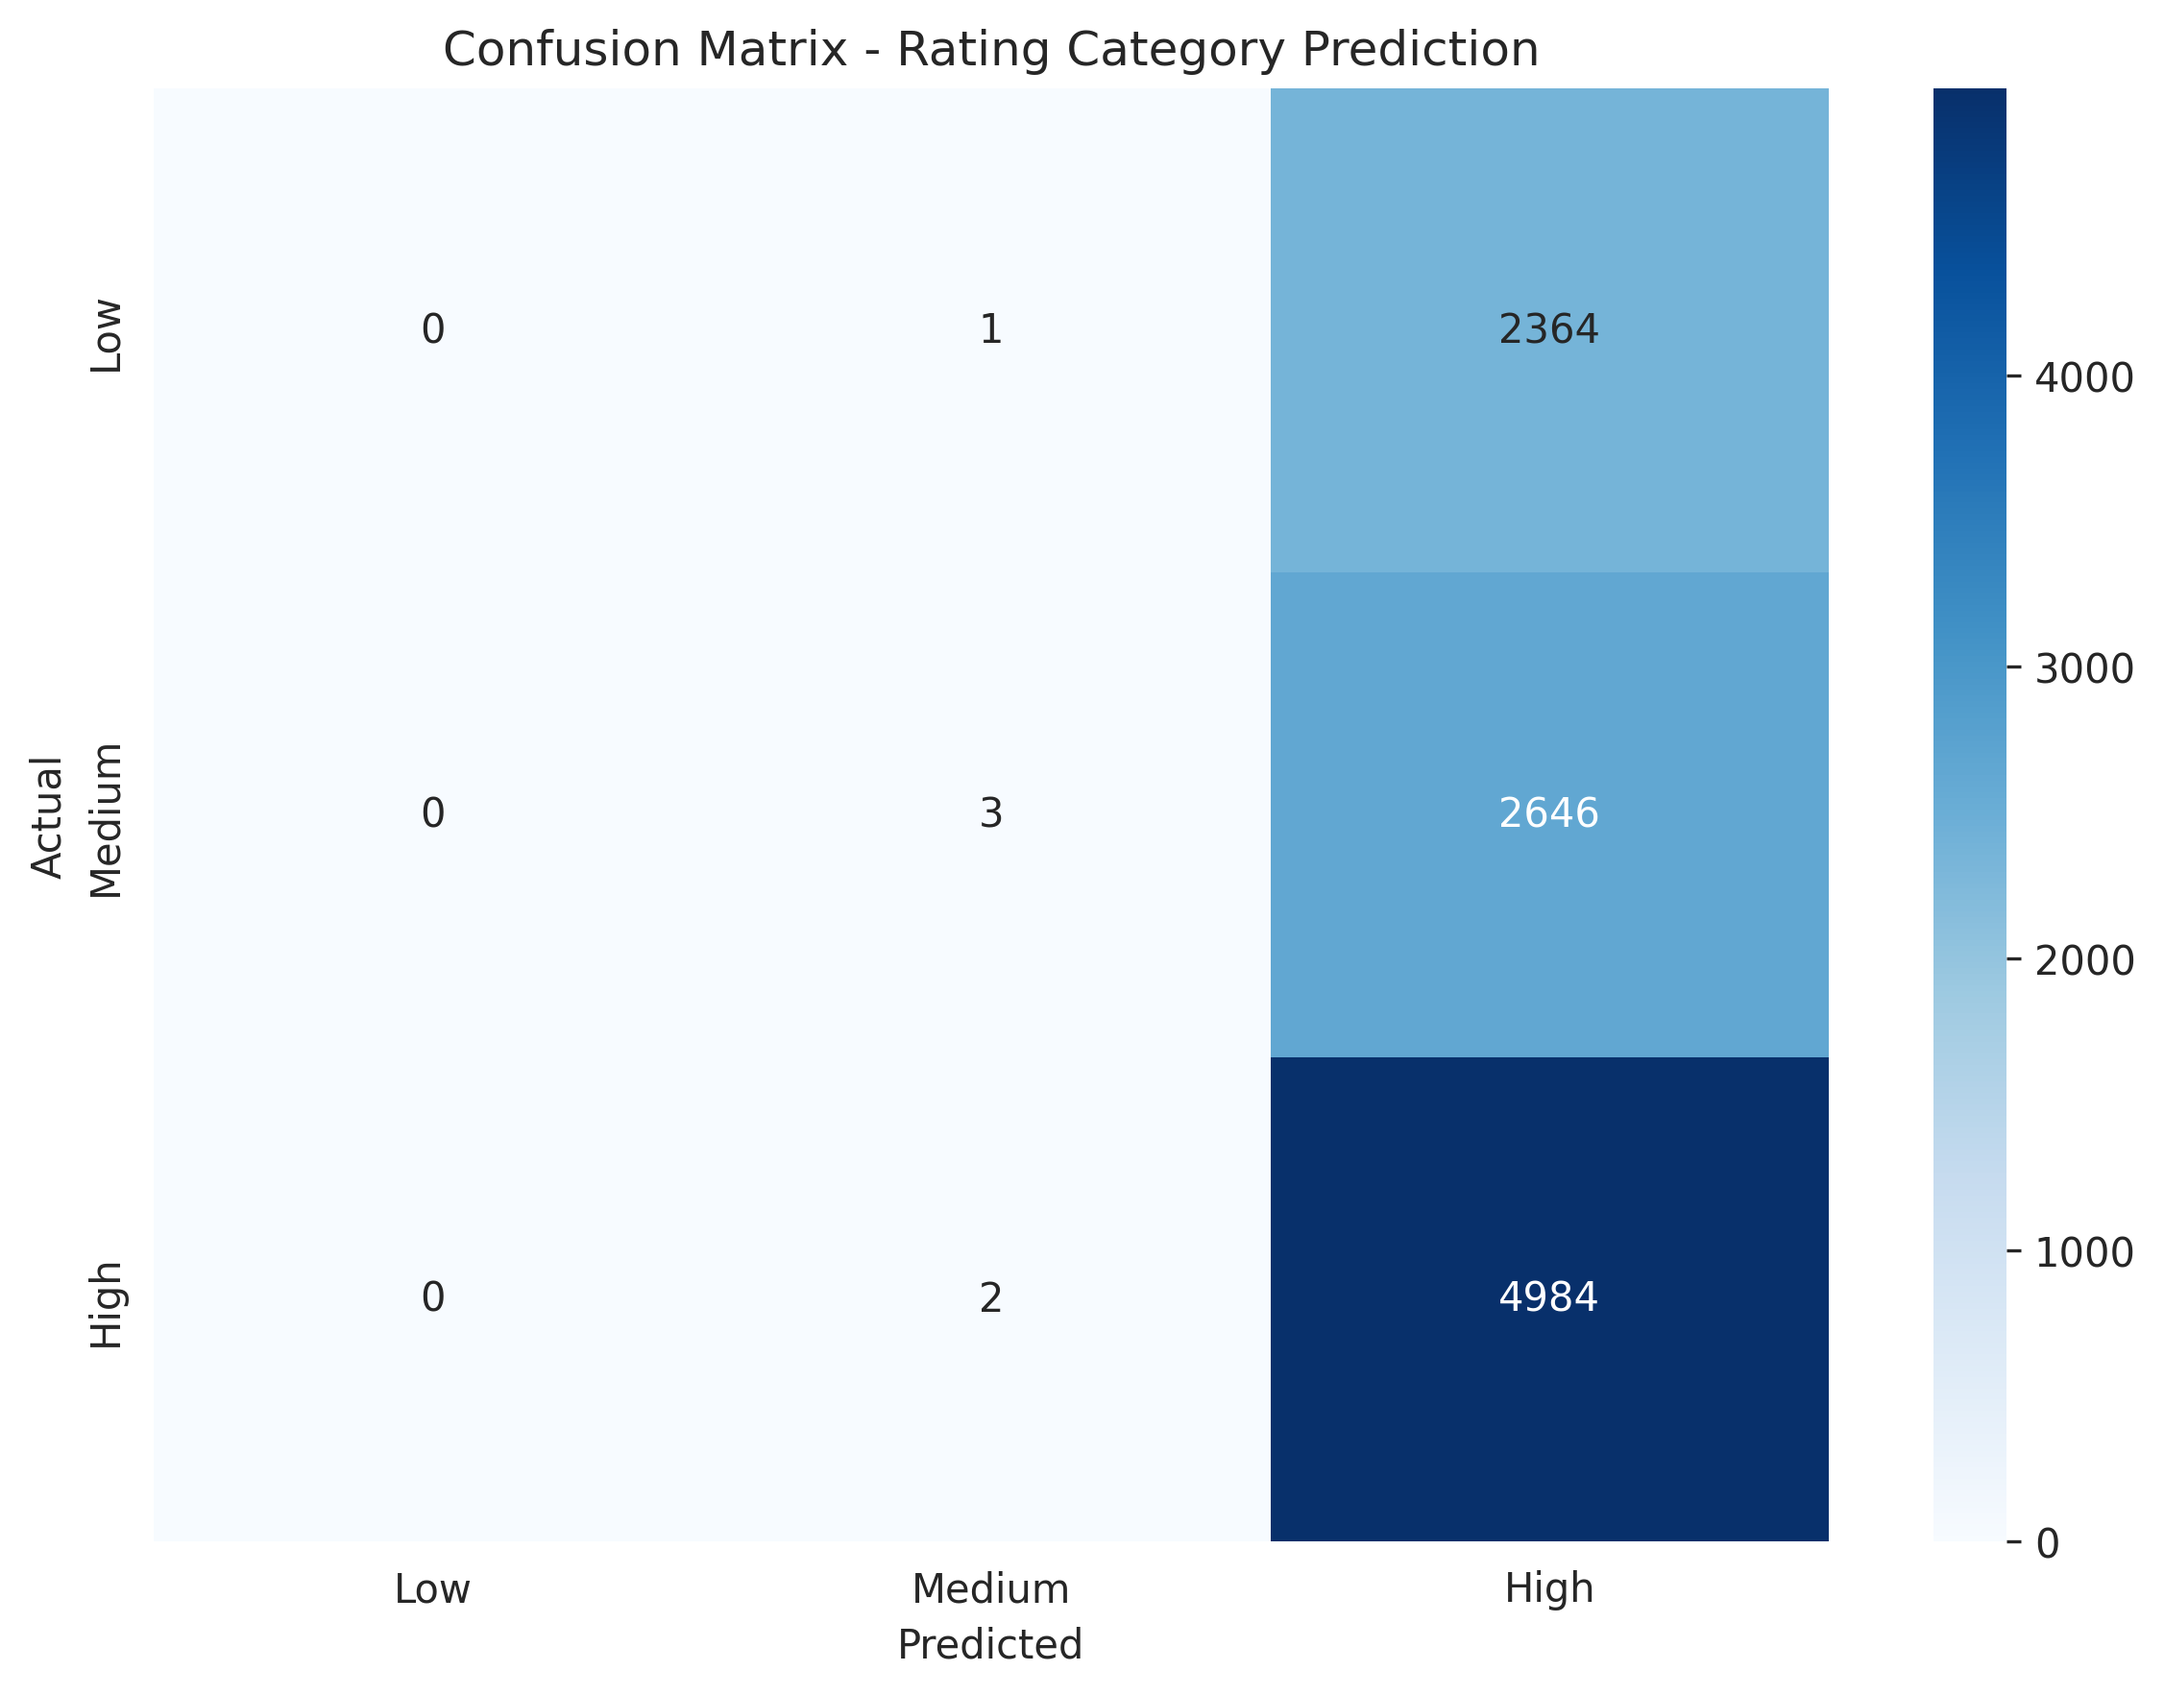
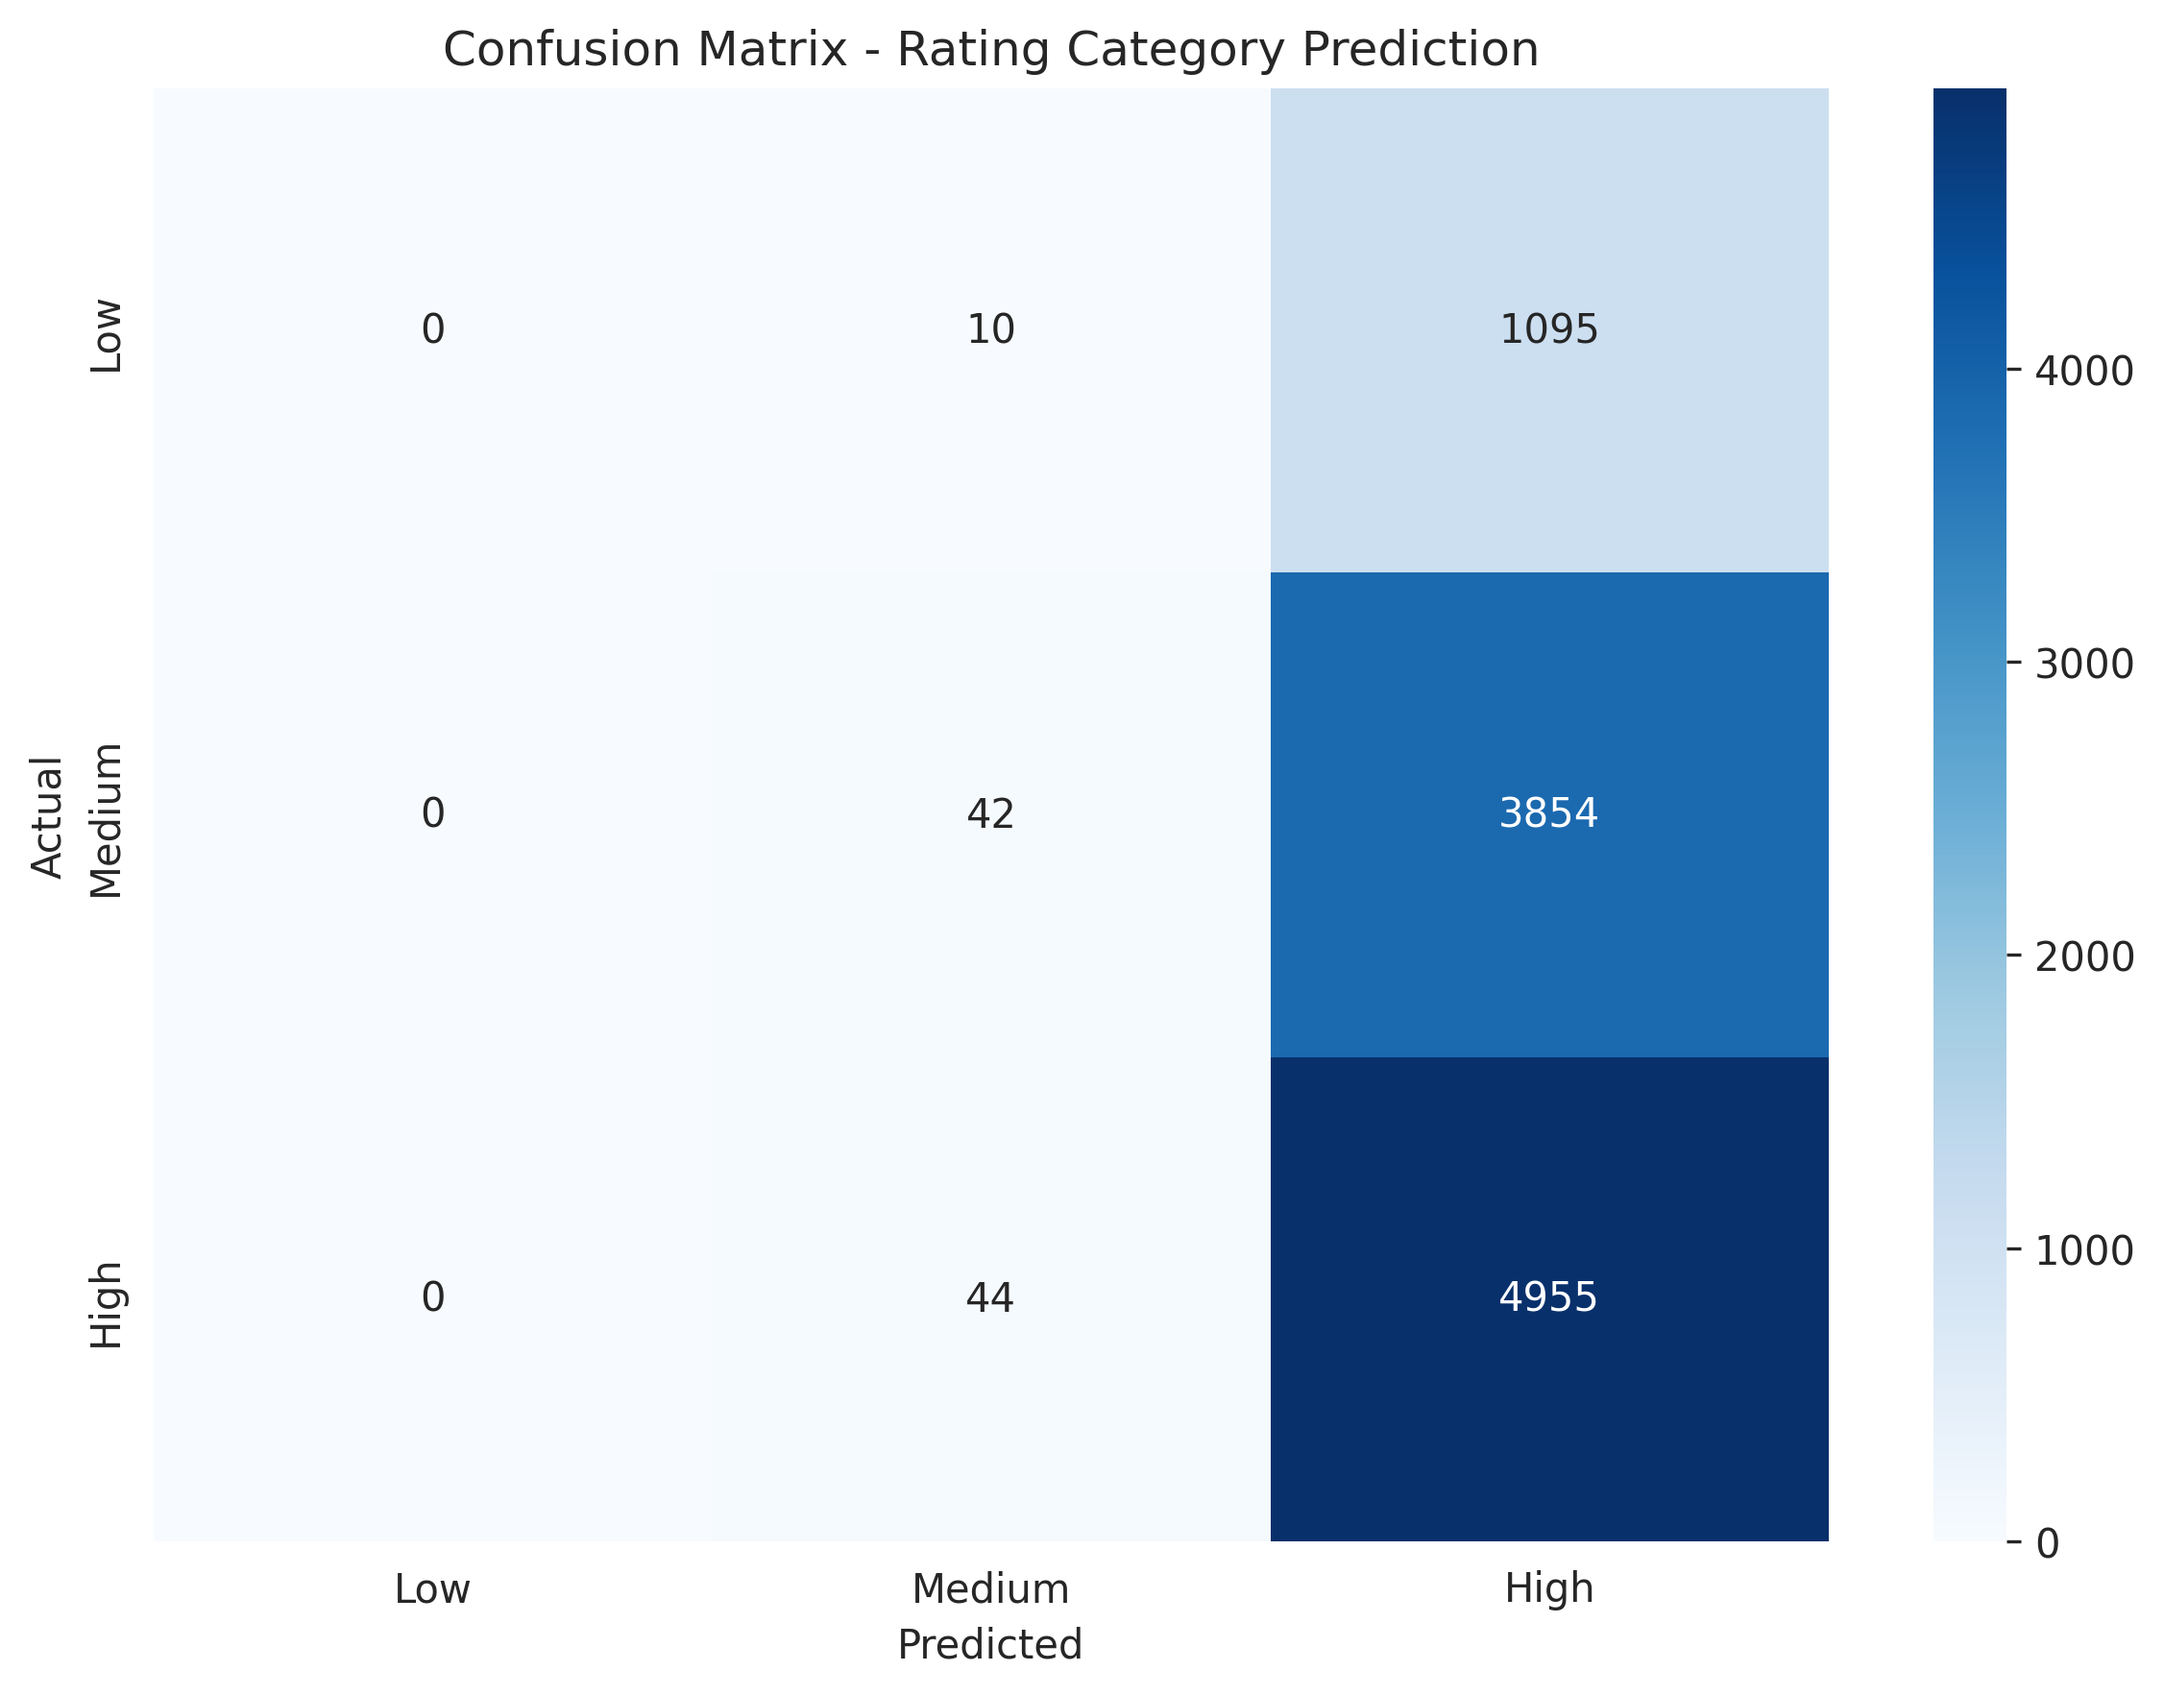
Address code review feedback: improve variable names, fix side effects, and clarify rating bins

diff --git a/eda_and_ml_models.py b/eda_and_ml_models.py
@@ -192,8 +192,8 @@ class AmazonSalesAnalysis:
         axes[0, 1].set_xlabel('Total Revenue')
         
         # Average order value by category
-        avg_order = self.df.groupby('product_category')['total_revenue'].mean().sort_values()
-        avg_order.plot(kind='barh', ax=axes[1, 0], color='coral')
+        avg_revenue_by_category = self.df.groupby('product_category')['total_revenue'].mean().sort_values()
+        avg_revenue_by_category.plot(kind='barh', ax=axes[1, 0], color='coral')
         axes[1, 0].set_title('Average Order Value by Category')
         axes[1, 0].set_xlabel('Average Revenue')
         
@@ -251,8 +251,10 @@ class AmazonSalesAnalysis:
         plt.close()
         
         # 7. Time series analysis
-        self.df['year_month'] = self.df['order_date'].dt.to_period('M')
-        monthly_revenue = self.df.groupby('year_month')['total_revenue'].sum()
+        # Create a copy to avoid modifying the original dataframe
+        df_temp = self.df.copy()
+        df_temp['year_month'] = df_temp['order_date'].dt.to_period('M')
+        monthly_revenue = df_temp.groupby('year_month')['total_revenue'].sum()
         
         plt.figure(figsize=(14, 6))
         monthly_revenue.plot(kind='line', marker='o', color='navy')
@@ -429,10 +431,11 @@ class AmazonSalesAnalysis:
         print("BUILDING CLASSIFICATION MODELS (Predicting Rating Category)")
         print("=" * 80)
         
-        # Create rating categories: Low (1-2), Medium (2-4), High (4-5)
+        # Create rating categories: Low (1-2), Medium (3-4), High (5)
+        # Using bins to ensure: 1-2 = Low, 3-4 = Medium, 5 = High
         self.df_processed['rating_category'] = pd.cut(
             self.df_processed['rating'], 
-            bins=[0, 2, 4, 5], 
+            bins=[0, 2.5, 4.5, 5.1], 
             labels=['Low', 'Medium', 'High']
         )
         

diff --git a/README.md b/README.md
@@ -192,7 +192,7 @@ The model accurately predicts total revenue based on transaction features, makin
 
 ## 📄 License
 
-This project is licensed under the terms specified in the LICENSE file.
+This project is licensed under the MIT License - see the [LICENSE](LICENSE) file for details.
 
 ## 👤 Author
 
